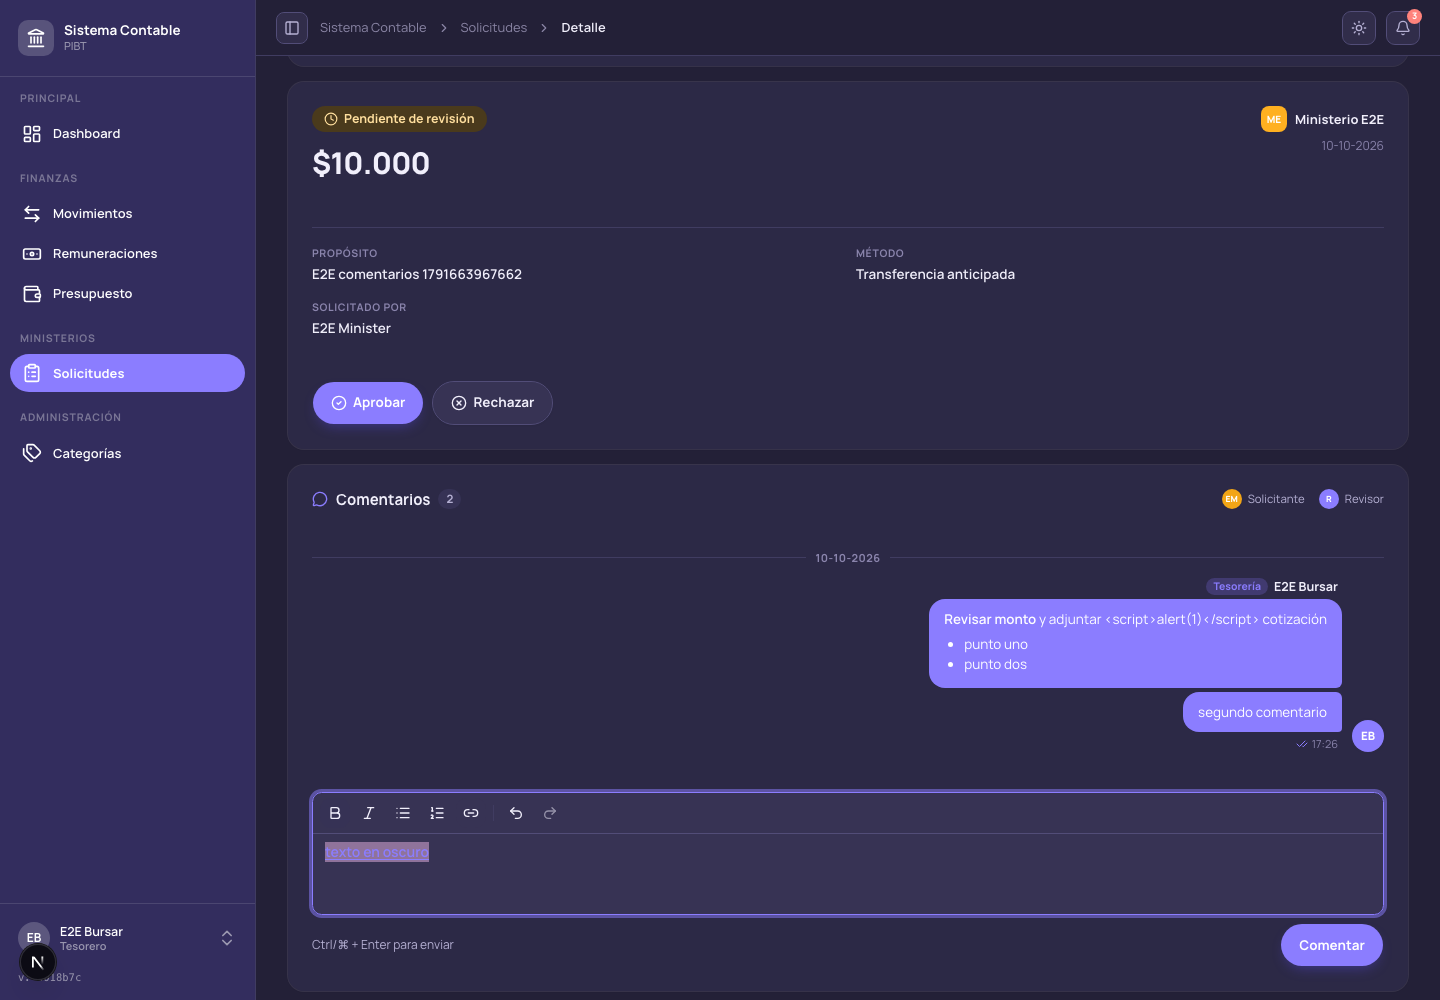
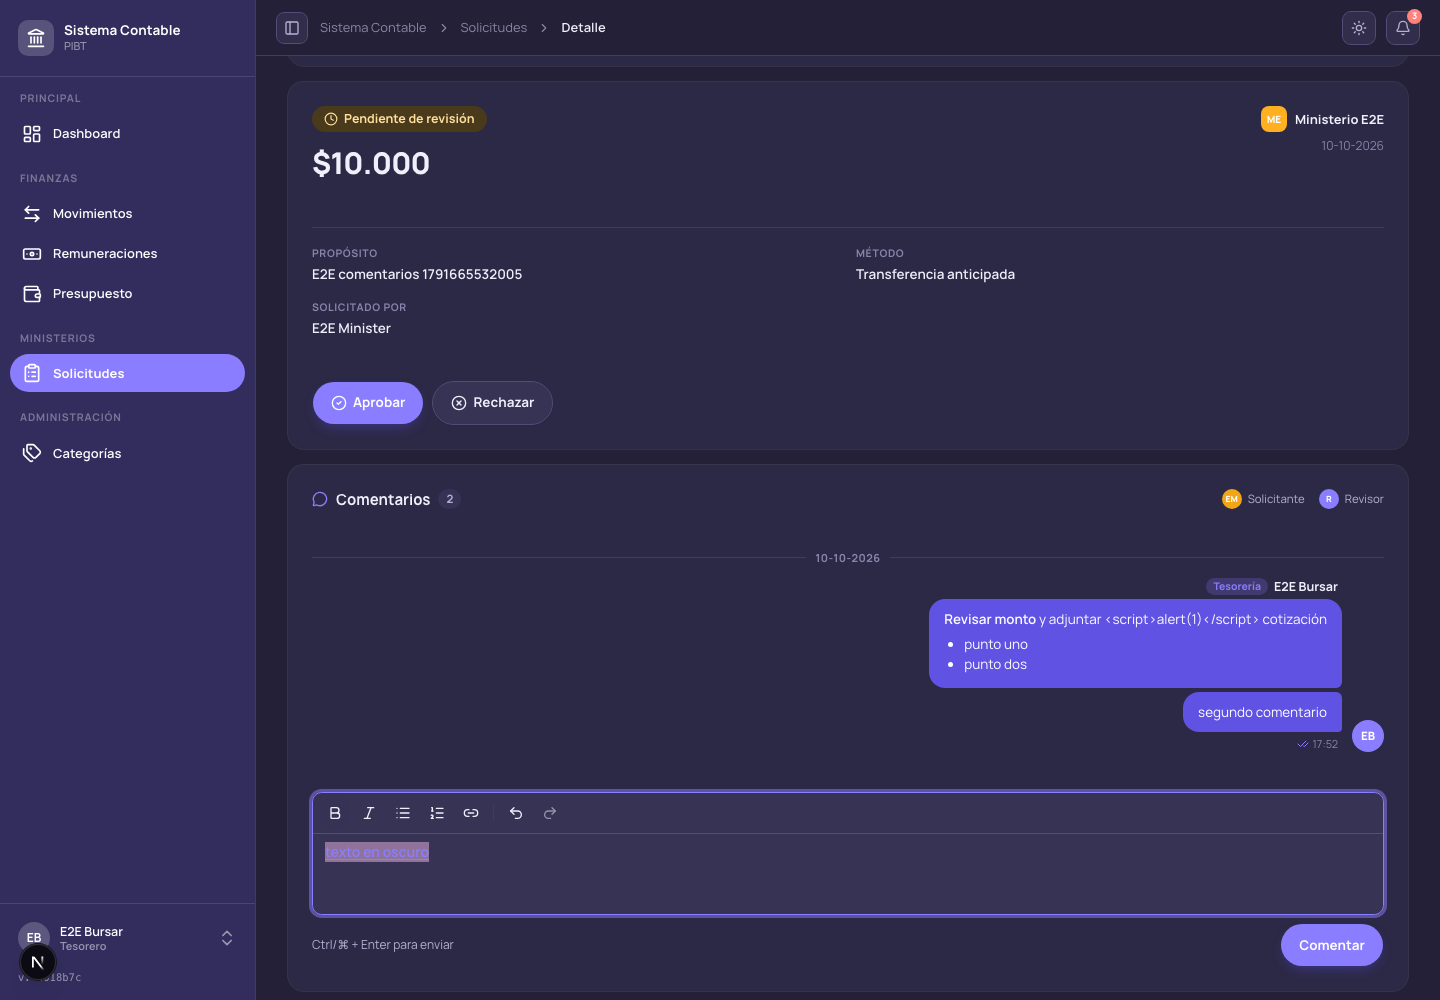
fix(requests): meet AA contrast for reviewer bubbles in dark mode
White text on the dark-mode primary (#8b7dff) is ~3.3:1. Use primary-dark
darkened 8% for the reviewer bubble in dark mode (>4.5:1). Light mode keeps
the design's primary. The e2e now asserts 4.5:1 instead of 3:1.

Changed region(s): [[0.625, 0.589, 0.9375, 0.744], [0.3125, 0.248, 0.3438, 0.279]]

diff --git a/e2e/11-rich-comments.spec.ts b/e2e/11-rich-comments.spec.ts
@@ -183,10 +183,9 @@ test("request comments use a rich text editor and render formatted", async () =>
 
   // Rendered comments (bold, list, link) are legible in dark mode
   const rendered = bubbles.filter({ hasText: "Revisar monto" })
-  // Reviewer bubbles are white on the primary color (per the design): the dark-mode
-  // primary gives ~3.3:1, so assert the 3:1 floor here rather than 4.5.
-  await expectContrast(rendered.locator("strong"), 3)
-  await expectContrast(rendered.locator("li").first(), 3)
+  // Reviewer bubbles are white on a darkened primary in dark mode, which clears AA.
+  await expectContrast(rendered.locator("strong"), 4.5)
+  await expectContrast(rendered.locator("li").first(), 4.5)
   await shot(bursar, "11-rich-comments", "comment-rendered-dark", { fullPage: false })
 
   // The comment posted in dark mode renders as a link opening in a new tab

diff --git a/components/intentions/comment-thread.tsx b/components/intentions/comment-thread.tsx
@@ -71,7 +71,13 @@ function Message({ item }: { item: MessageItem }) {
         <Bubble
           variant={reviewer ? "default" : "muted"}
           align={reviewer ? "end" : "start"}
-          className={cn("max-w-full", !reviewer && "*:data-[slot=bubble-content]:border-border")}
+          className={cn(
+            "max-w-full",
+            reviewer
+              ? // The dark-mode primary under white text is ~3.3:1; primary-dark darkened 8% clears AA (4.5:1).
+                "dark:*:data-[slot=bubble-content]:bg-[color-mix(in_oklch,var(--primary-dark),black_8%)]"
+              : "*:data-[slot=bubble-content]:border-border"
+          )}
         >
           <BubbleContent className={cn("px-3.5 py-[9px] text-[13.5px] leading-normal", radius)}>
             <RichText
